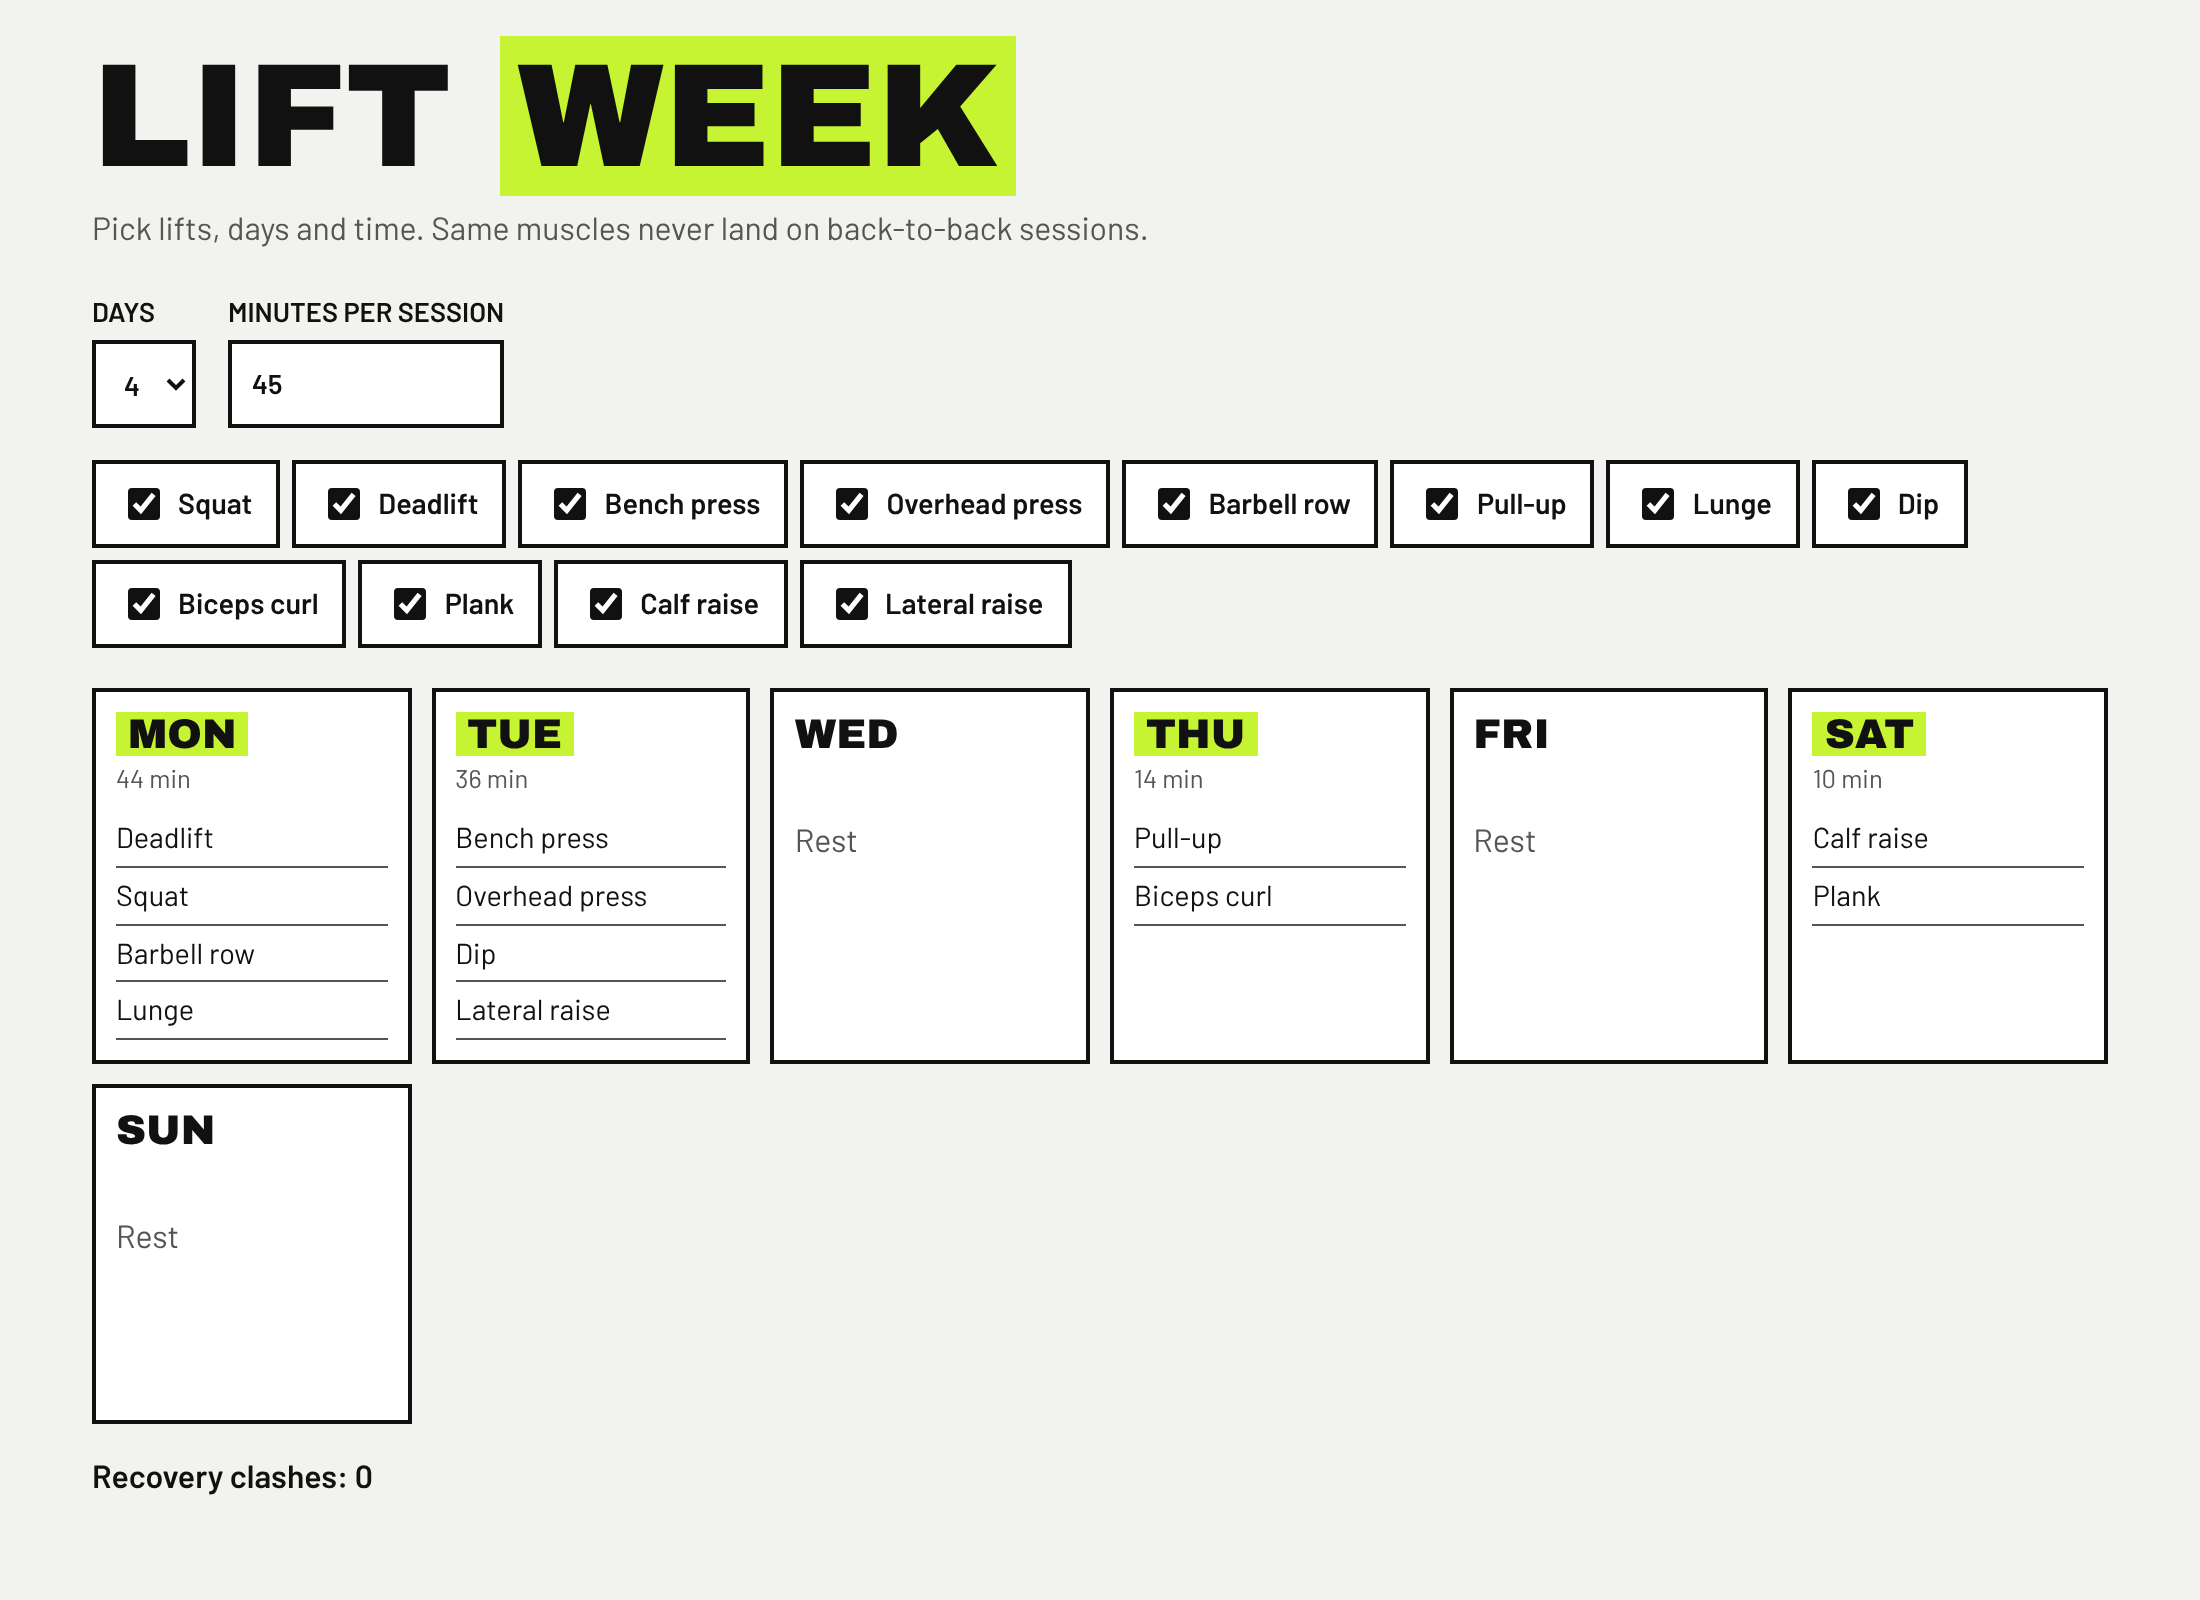
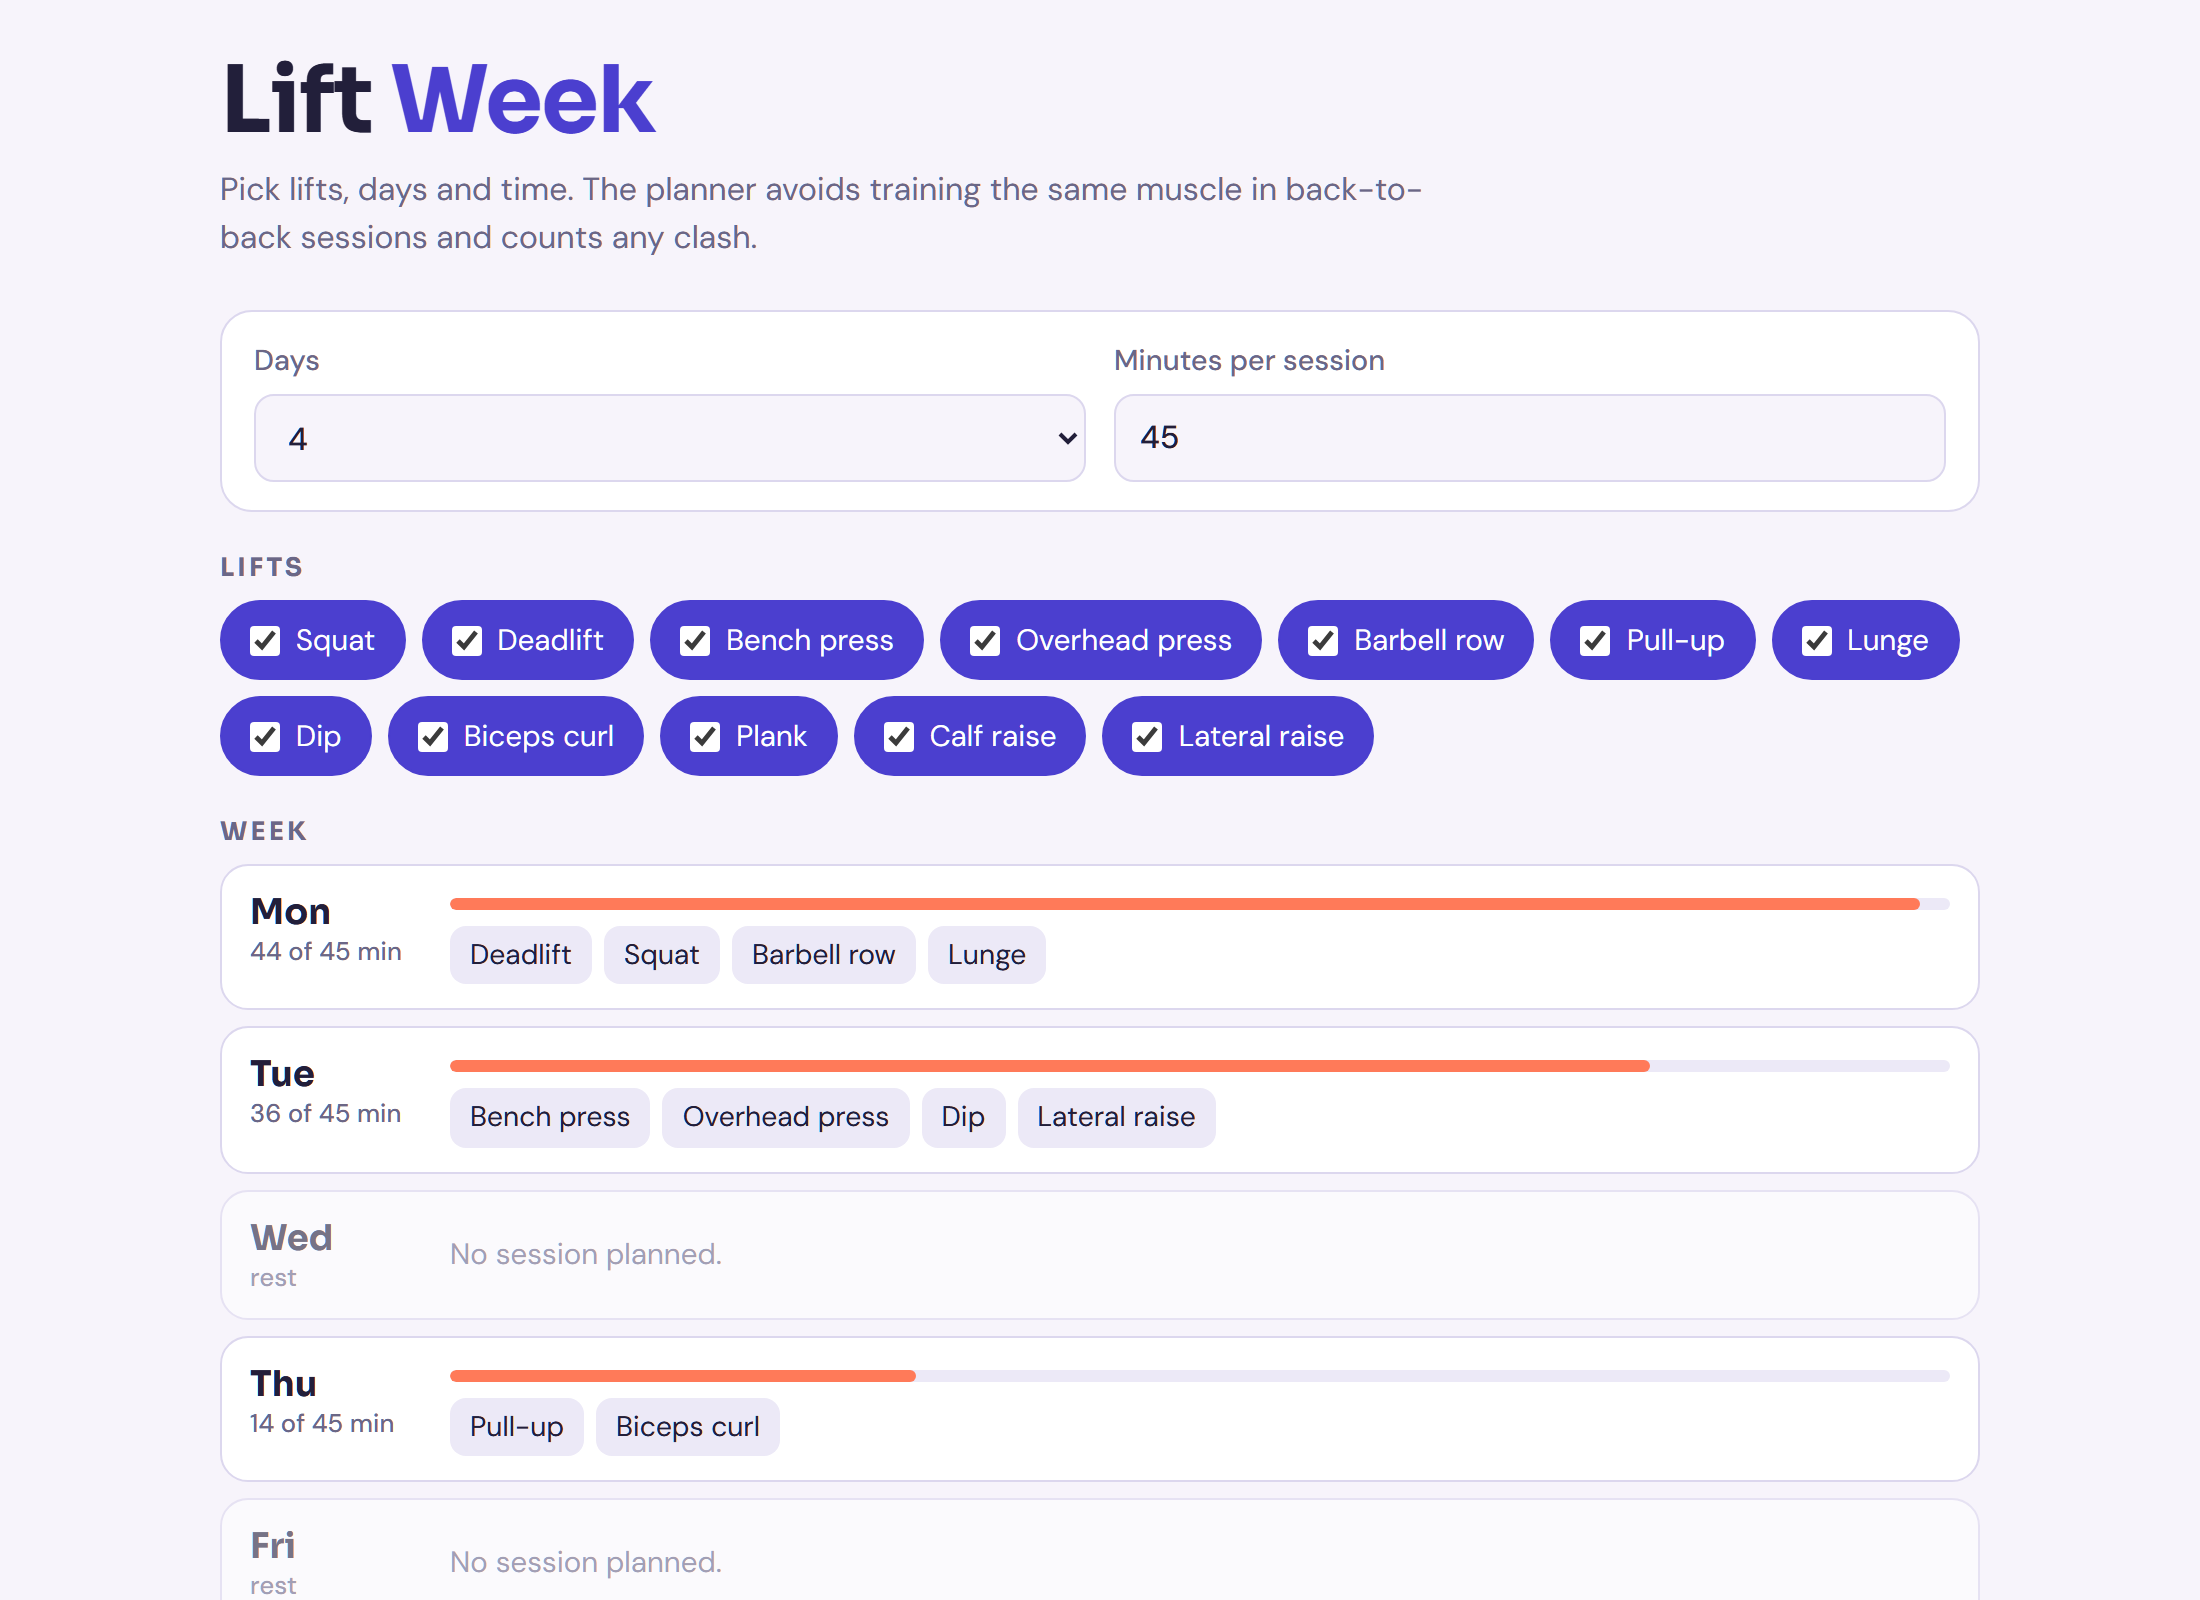
Redesign frontend: gym-week-planner

diff --git a/static/index.html b/static/index.html
@@ -1,30 +1,125 @@
-<!doctype html><html lang="en"><head><meta charset="utf-8"><meta name="viewport" content="width=device-width,initial-scale=1"><title>Lift Week</title>
-<link href="https://fonts.googleapis.com/css2?family=Archivo+Black&family=Barlow:wght@400;600&display=swap" rel="stylesheet">
+<!doctype html>
+<html lang="en">
+<head>
+<meta charset="utf-8">
+<meta name="viewport" content="width=device-width,initial-scale=1">
+<title>Lift Week</title>
+<link href="https://fonts.googleapis.com/css2?family=Sora:wght@500;700&family=DM+Sans:wght@400;500&display=swap" rel="stylesheet">
 <style>
-:root{--bg:#f2f2ee;--ink:#111;--acid:#c6f432;--mute:#555;--card:#fff}
-@media(prefers-color-scheme:dark){:root{--bg:#0e0e0e;--ink:#f2f2ee;--acid:#c6f432;--mute:#a2a29a;--card:#1a1a1a}}
-*{box-sizing:border-box}body{margin:0;background:var(--bg);color:var(--ink);font:16px/1.5 Barlow,sans-serif}
-main{max-width:1040px;margin:auto;padding:24px 16px 56px}h1{font:clamp(2.4rem,9vw,4.6rem)/.95 "Archivo Black";text-transform:uppercase;margin:0}h1 mark{background:var(--acid);color:#111;padding:0 8px}
-.sub{color:var(--mute);margin:8px 0 20px}.ctl{display:flex;flex-wrap:wrap;gap:16px;align-items:end;margin-bottom:16px}label{display:grid;gap:4px;font-weight:600;font-size:.85rem;text-transform:uppercase}
-select,input[type=number]{min-height:44px;padding:0 10px;font:inherit;background:var(--card);color:var(--ink);border:2px solid var(--ink)}
-.ex{display:flex;flex-wrap:wrap;gap:6px;margin-bottom:20px}.ex label{flex-direction:row;display:flex;gap:6px;align-items:center;min-height:44px;padding:0 12px;border:2px solid var(--ink);background:var(--card);text-transform:none;font-size:.9rem;cursor:pointer;transition:transform 150ms}.ex label:hover{transform:translateY(-2px)}
-input[type=checkbox]{accent-color:#111;width:16px;height:16px}:focus-visible{outline:3px solid var(--acid);outline-offset:2px}
-.week{display:grid;grid-template-columns:repeat(auto-fit,minmax(min(150px,100%),1fr));gap:10px;animation:in .3s}@keyframes in{from{opacity:0;transform:translateY(6px)}}
-.day{border:2px solid var(--ink);background:var(--card);min-height:170px;padding:10px}.day b{display:block;font:1.3rem "Archivo Black";text-transform:uppercase}.day.on b{background:var(--acid);color:#111;padding:0 6px;display:inline-block}
-.day .t{color:var(--mute);font-size:.8rem;margin-bottom:6px}.day div.e{padding:3px 0;border-bottom:1px solid var(--mute);font-size:.9rem}.rest{color:var(--mute);margin-top:30px}
-.msg{margin-top:14px;font-weight:600}@media(prefers-reduced-motion:reduce){*{animation:none!important;transition:none!important}}
-</style></head><body><main>
-<h1>Lift <mark>Week</mark></h1><p class="sub">Pick lifts, days and time. The planner avoids training the same muscle in back-to-back sessions and counts any clash.</p>
-<div class="ctl"><label>Days<select id="d"><option>2</option><option>3</option><option selected>4</option><option>5</option></select></label><label>Minutes per session<input type="number" id="m" value="45" min="10" max="180"></label></div>
-<div class="ex" id="ex" role="group" aria-label="Exercises"></div>
-<div class="week" id="w" aria-live="polite"></div><p class="msg" id="msg"></p></main>
+:root{
+  --paper:#f7f4fb;--panel:#ffffff;--ink:#221f3a;--mute:#6b6786;--rule:#dcd7ee;
+  --accent:#4b3fcf;--accent-ink:#ffffff;--coral:#ff7a59;--track:#ece9f7;
+}
+@media (prefers-color-scheme: dark){
+  :root{
+    --paper:#14122a;--panel:#1e1b3a;--ink:#ece9ff;--mute:#a7a2c9;--rule:#36315e;
+    --accent:#9d92ff;--accent-ink:#14122a;--coral:#ff9c84;--track:#2a2650;
+  }
+}
+*{box-sizing:border-box}
+html{background:var(--paper)}
+body{margin:0;min-height:100vh;background:var(--paper);color:var(--ink);font:16px/1.5 "DM Sans",system-ui,sans-serif;padding:16px}
+main{max-width:880px;margin:0 auto}
+header{padding:10px 0 4px}
+h1{font:700 clamp(2rem,7vw,2.9rem)/1.05 Sora,system-ui,sans-serif;margin:0;letter-spacing:-.02em}
+h1 em{font-style:normal;color:var(--accent)}
+.sub{color:var(--mute);margin:8px 0 0;max-width:58ch}
+h2{font:700 .8rem Sora,system-ui,sans-serif;text-transform:uppercase;letter-spacing:.12em;color:var(--mute);margin:0 0 8px}
+section{margin-top:20px}
+.panel{background:var(--panel);border:1px solid var(--rule);border-radius:16px;padding:14px 16px}
+.ctl{display:grid;grid-template-columns:repeat(auto-fit,minmax(200px,1fr));gap:14px}
+label.f{display:grid;gap:6px;font-size:.9rem;font-weight:500;color:var(--mute)}
+select,input[type=number]{min-height:44px;padding:0 12px;font:inherit;font-size:1rem;color:var(--ink);background:var(--paper);border:1px solid var(--rule);border-radius:10px}
+.chips{display:flex;flex-wrap:wrap;gap:8px}
+.chip{display:inline-flex;align-items:center;gap:8px;min-height:40px;padding:0 14px;border:1px solid var(--rule);border-radius:999px;background:var(--panel);font-size:.92rem;cursor:pointer;user-select:none}
+.chip:has(input:checked){background:var(--accent);border-color:var(--accent);color:var(--accent-ink)}
+.chip input{accent-color:var(--accent-ink);width:15px;height:15px;margin:0}
+.agenda{display:grid;gap:8px}
+.row{display:grid;grid-template-columns:86px minmax(0,1fr);gap:14px;align-items:stretch;background:var(--panel);border:1px solid var(--rule);border-radius:14px;padding:12px 14px}
+.row.rest{opacity:.6}
+.dayname{font:700 1.1rem Sora,system-ui,sans-serif}
+.dayname small{display:block;font:500 .8rem "DM Sans",sans-serif;color:var(--mute)}
+.meter{height:6px;border-radius:99px;background:var(--track);overflow:hidden;margin:4px 0 8px}
+.meter i{display:block;height:100%;background:var(--coral);border-radius:99px}
+.lifts{display:flex;flex-wrap:wrap;gap:6px}
+.lift{font-size:.88rem;padding:4px 10px;border-radius:8px;background:var(--track)}
+.restnote{color:var(--mute);font-size:.92rem;align-self:center}
+.msg{margin:14px 0 0;padding:10px 14px;border-radius:12px;background:var(--panel);border-left:4px solid var(--accent);font-size:.95rem}
+:focus-visible{outline:3px solid var(--coral);outline-offset:2px}
+@media (max-width:480px){
+  .row{grid-template-columns:1fr;gap:6px}
+}
+@media (prefers-reduced-motion:reduce){*{transition:none!important;animation:none!important}}
+</style>
+</head>
+<body>
+<main>
+  <header>
+    <h1>Lift <em>Week</em></h1>
+    <p class="sub">Pick lifts, days and time. The planner avoids training the same muscle in back-to-back sessions and counts any clash.</p>
+  </header>
+
+  <section aria-label="Settings">
+    <div class="panel ctl">
+      <label class="f">Days
+        <select id="d">
+          <option>2</option><option>3</option><option selected>4</option><option>5</option>
+        </select>
+      </label>
+      <label class="f">Minutes per session
+        <input type="number" id="m" value="45" min="10" max="180">
+      </label>
+    </div>
+  </section>
+
+  <section aria-label="Exercises">
+    <h2>Lifts</h2>
+    <div class="chips" id="ex" role="group" aria-label="Exercises"></div>
+  </section>
+
+  <section aria-label="Week">
+    <h2>Week</h2>
+    <div class="agenda" id="w" aria-live="polite"></div>
+    <p class="msg" id="msg"></p>
+  </section>
+</main>
 <script>
-const $=i=>document.getElementById(i),D=["Mon","Tue","Wed","Thu","Fri","Sat","Sun"];
-async function init(){const l=await (await fetch("/exercises")).json();$("ex").innerHTML=l.map(e=>`<label><input type="checkbox" value="${e.name}" checked>${e.name}</label>`).join("");
-document.querySelectorAll("input").forEach(e=>e.onchange=go);$("d").onchange=go;go()}
-async function go(){const sel=[...document.querySelectorAll(".ex input:checked")].map(e=>e.value);if(!sel.length){$("w").innerHTML="";$("msg").textContent="Pick at least one lift.";return}
-const r=await fetch("/plan",{method:"POST",headers:{"Content-Type":"application/json"},body:JSON.stringify({exercises:sel,days:+$("d").value,minutes_per_day:+$("m").value})});const d=await r.json();if(!r.ok){$("msg").textContent=d.detail;return}
-$("w").innerHTML=D.map(x=>{const v=d.week[x];return v?`<div class="day on"><b>${x}</b><div class="t">${d.minutes[x]} min</div>${v.map(n=>`<div class="e">${n}</div>`).join("")}</div>`:`<div class="day"><b>${x}</b><div class="rest">Rest</div></div>`}).join("");
-$("msg").textContent=d.unplaced.length?`Did not fit: ${d.unplaced.join(", ")}`:`Recovery clashes: ${d.recovery_clashes}`}
+const $ = i => document.getElementById(i);
+const DAYS = ["Mon", "Tue", "Wed", "Thu", "Fri", "Sat", "Sun"];
+
+async function init() {
+  const l = await (await fetch("/exercises")).json();
+  $("ex").innerHTML = l.map(e => `<label class="chip"><input type="checkbox" value="${e.name}" checked>${e.name}</label>`).join("");
+  document.querySelectorAll("input").forEach(e => e.onchange = go);
+  $("d").onchange = go;
+  go();
+}
+
+async function go() {
+  const sel = [...document.querySelectorAll(".chip input:checked")].map(e => e.value);
+  if (!sel.length) { $("w").innerHTML = ""; $("msg").textContent = "Pick at least one lift."; return; }
+  const budget = +$("m").value;
+  const r = await fetch("/plan", {
+    method: "POST",
+    headers: {"Content-Type": "application/json"},
+    body: JSON.stringify({exercises: sel, days: +$("d").value, minutes_per_day: budget}),
+  });
+  const d = await r.json();
+  if (!r.ok) { $("msg").textContent = d.detail; return; }
+  $("w").innerHTML = DAYS.map(x => {
+    const v = d.week[x];
+    if (!v) return `<div class="row rest"><div class="dayname">${x}<small>rest</small></div><div class="restnote">No session planned.</div></div>`;
+    const pct = Math.min(100, Math.round(d.minutes[x] / budget * 100));
+    return `<div class="row"><div class="dayname">${x}<small>${d.minutes[x]} of ${budget} min</small></div>`
+      + `<div><div class="meter" aria-hidden="true"><i style="width:${pct}%"></i></div>`
+      + `<div class="lifts">${v.map(n => `<span class="lift">${n}</span>`).join("")}</div></div></div>`;
+  }).join("");
+  $("msg").textContent = d.unplaced.length
+    ? `Did not fit: ${d.unplaced.join(", ")}`
+    : `Recovery clashes: ${d.recovery_clashes}`;
+}
+
 init();
-</script></body></html>
+</script>
+</body>
+</html>
